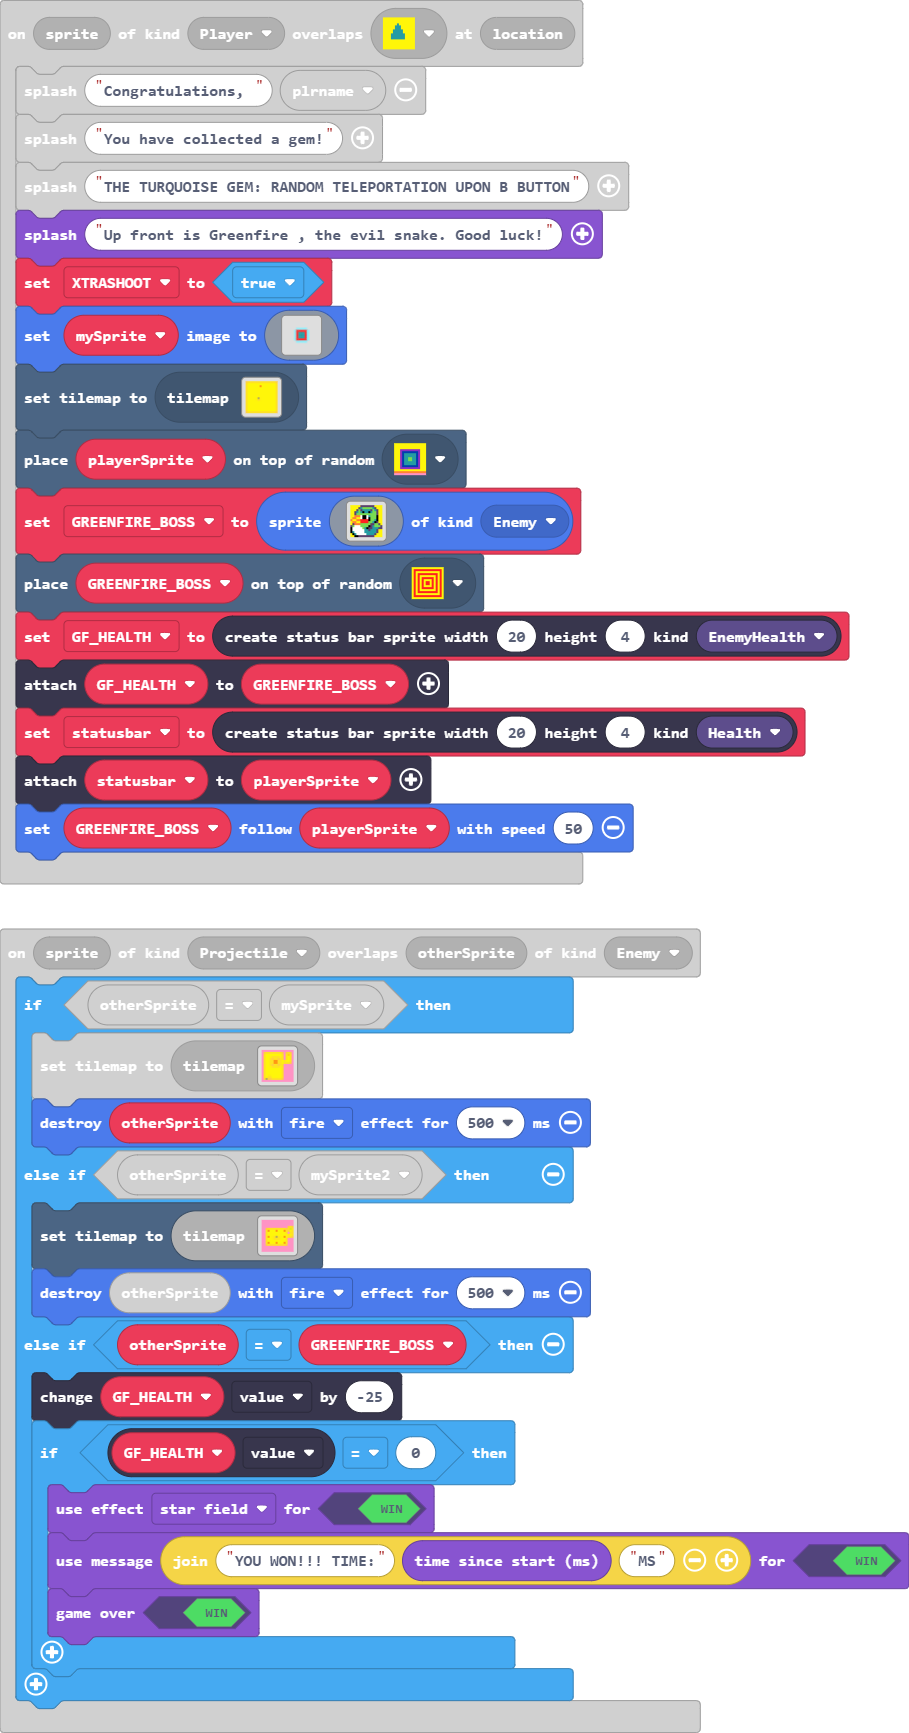
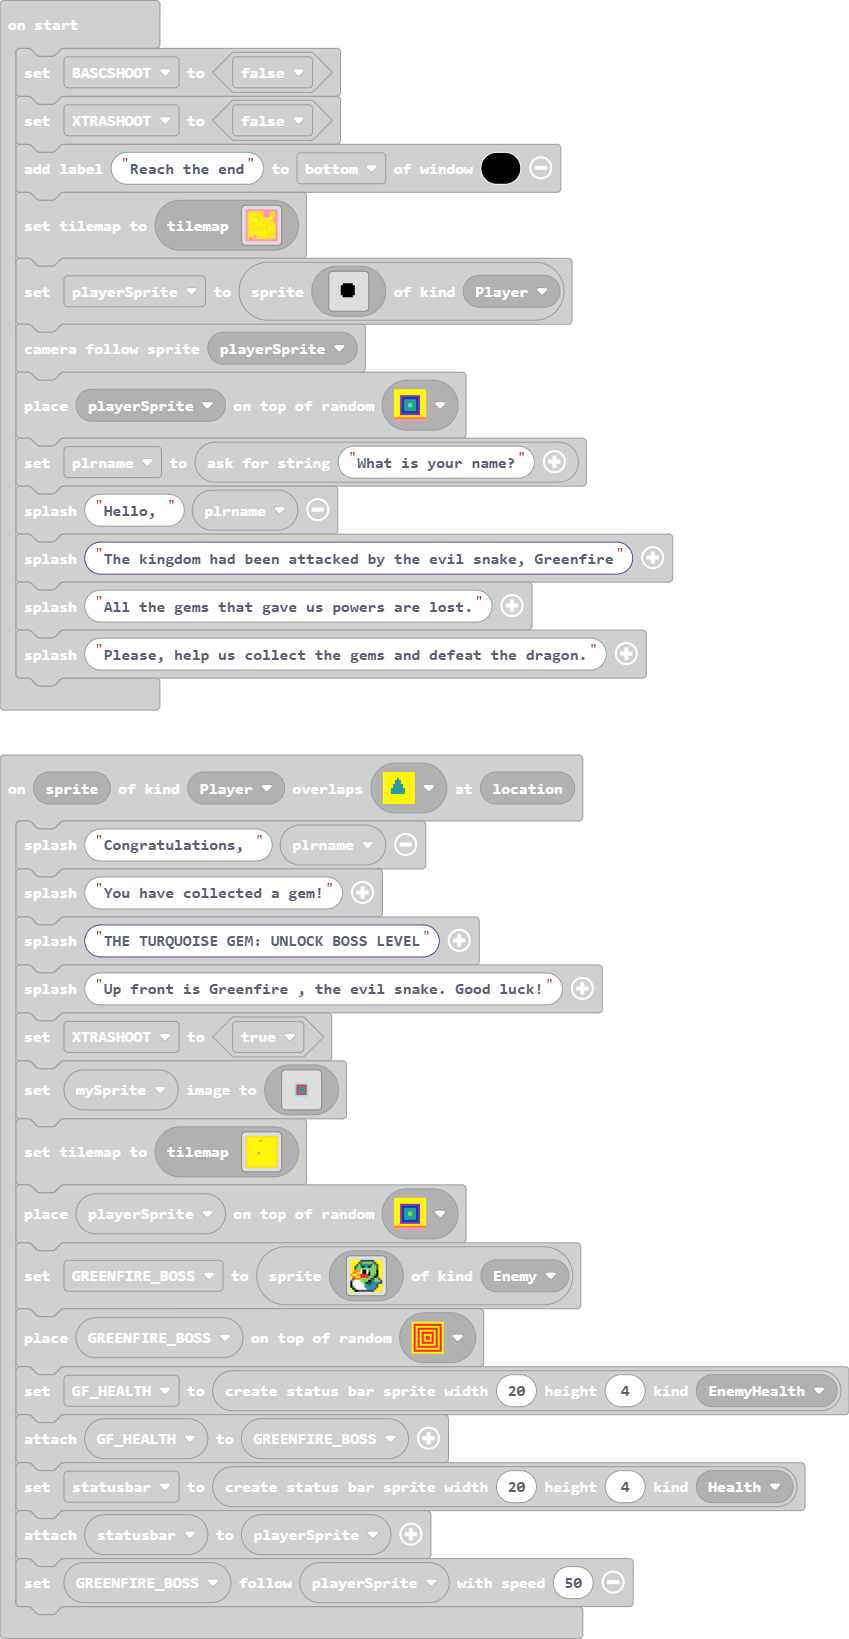
Update main.blocks, main.ts

diff --git a/main.ts b/main.ts
@@ -1,7 +1,7 @@
 scene.onOverlapTile(SpriteKind.Player, assets.tile`myTile19`, function (sprite, location) {
     game.splash("Congratulations, ", plrname)
     game.splash("You have collected a gem!")
-    game.splash("THE TURQUOISE GEM: RANDOM TELEPORTATION UPON B BUTTON")
+    game.splash("THE TURQUOISE GEM: UNLOCK BOSS LEVEL")
     game.splash("Up front is Greenfire , the evil snake. Good luck!")
     XTRASHOOT = true
     mySprite.setImage(assets.image`myImage`)
@@ -238,7 +238,7 @@ scene.cameraFollowSprite(playerSprite)
 tiles.placeOnRandomTile(playerSprite, assets.tile`myTile10`)
 plrname = game.askForString("What is your name?")
 game.splash("Hello, ", plrname)
-game.splash("The kingdom had been attacked by the dragon, Greenfire")
+game.splash("The kingdom had been attacked by the evil snake, Greenfire")
 game.splash("All the gems that gave us powers are lost.")
 game.splash("Please, help us collect the gems and defeat the dragon.")
 game.onUpdateInterval(3000, function () {
